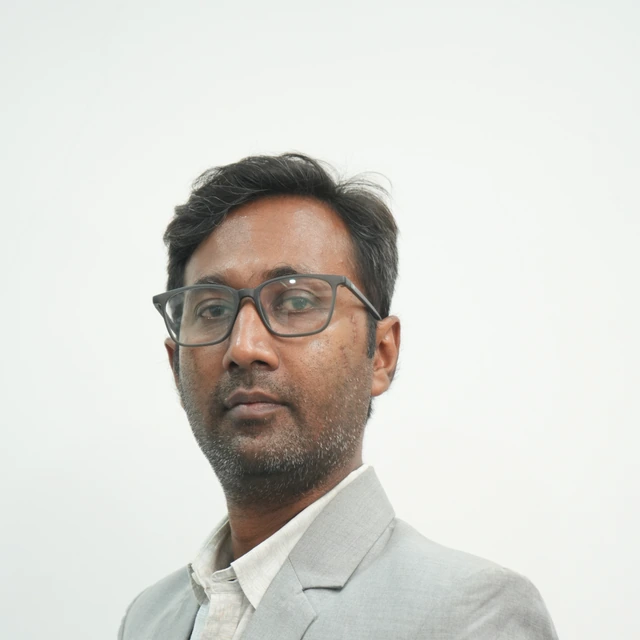
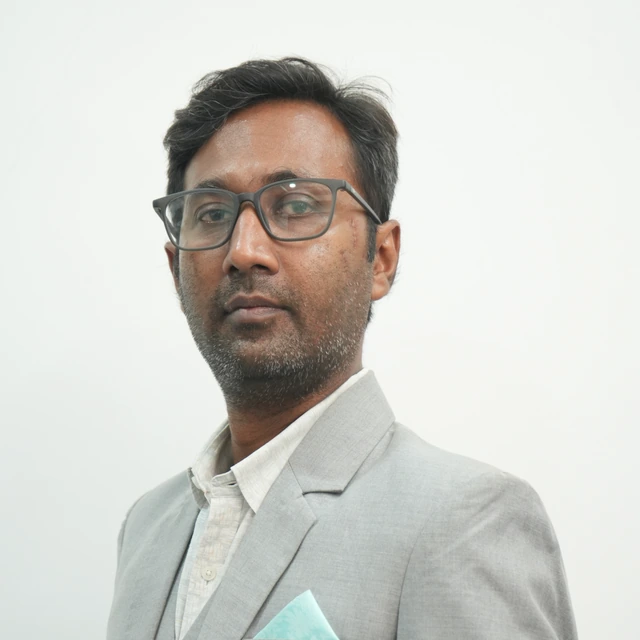
Cut the dead space above the leadership portraits
Hair top was sitting between 20% and 28% of each square, so every card carried
a band of wall or backdrop above the head. Each crop window now sits lower in
its source, which lifts the subject in frame: hair top lands at 11-12% across
all four.

Only the window moved - the squares are the same size, so head height stays at
44-46% and the four still read at one scale. Every new window fits inside its
source, so nothing is padded or invented at the edges, and the delivered widths
are unchanged, which means no markup edit and no stale srcset.

diff --git a/tools/build-leader-photos.js b/tools/build-leader-photos.js
@@ -26,6 +26,9 @@ fs.mkdirSync(outDir, { recursive: true });
 
 // side/left/top are fractions of the upright image; side is a fraction of its height,
 // except where the image is portrait, where it is a fraction of the width.
+// Headroom: each crop window sits lower in its source than a centred one
+// would, which lifts the head in frame. Hair top lands near 12% of the square
+// rather than the 20-28% it was.
 // Love Sinha's source is a 546px web-sized image, not a camera original, so his
 // crop is fixed at the full width - anything tighter throws away resolution he
 // cannot get back. The other three are cropped out to match HIS scale instead
@@ -38,25 +41,25 @@ const PEOPLE = [
   {
     slug: 'ranjit-sinha', file: 'DSC05498.JPG',
     // Wide office shot, so there is room to open right out to 40%.
-    side: 1841 / 4672, left: 3495 / 7008, top: 635 / 4672,
+    side: 1841 / 4672, left: 3495 / 7008, top: 929 / 4672,
     alt: 'Ranjit Sinha, Founder and CEO of Met-Test Laboratories',
   },
   {
     slug: 'laxman-prasad-singh', file: 'DSC05554.JPG',
     // Full frame width: the loosest square this portrait allows.
-    side: 1, left: 0, top: 0,
+    side: 1, left: 0, top: 700 / 7008,
     alt: 'Laxman Prasad Singh, Metallurgical Engineer at Met-Test Laboratories',
   },
   {
     slug: 'animesh-kumar', file: 'DSC05530.JPG',
-    side: 1, left: 0, top: 0,
+    side: 1, left: 0, top: 373 / 7008,
     alt: 'Animesh Kumar, NDT Engineer at Met-Test Laboratories',
   },
   {
     slug: 'love-sinha', file: 'thumbnail.jpeg thumbnail (1).jpeg',
     // Full 546px width - every pixel the source has. Shifted down slightly so
     // his headroom sits with the others rather than well above them.
-    side: 1, left: 0, top: 303 / 1181,
+    side: 1, left: 0, top: 374 / 1181,
     alt: 'Love Sinha, IT Administrator at Met-Test Laboratories',
   },
 ];
